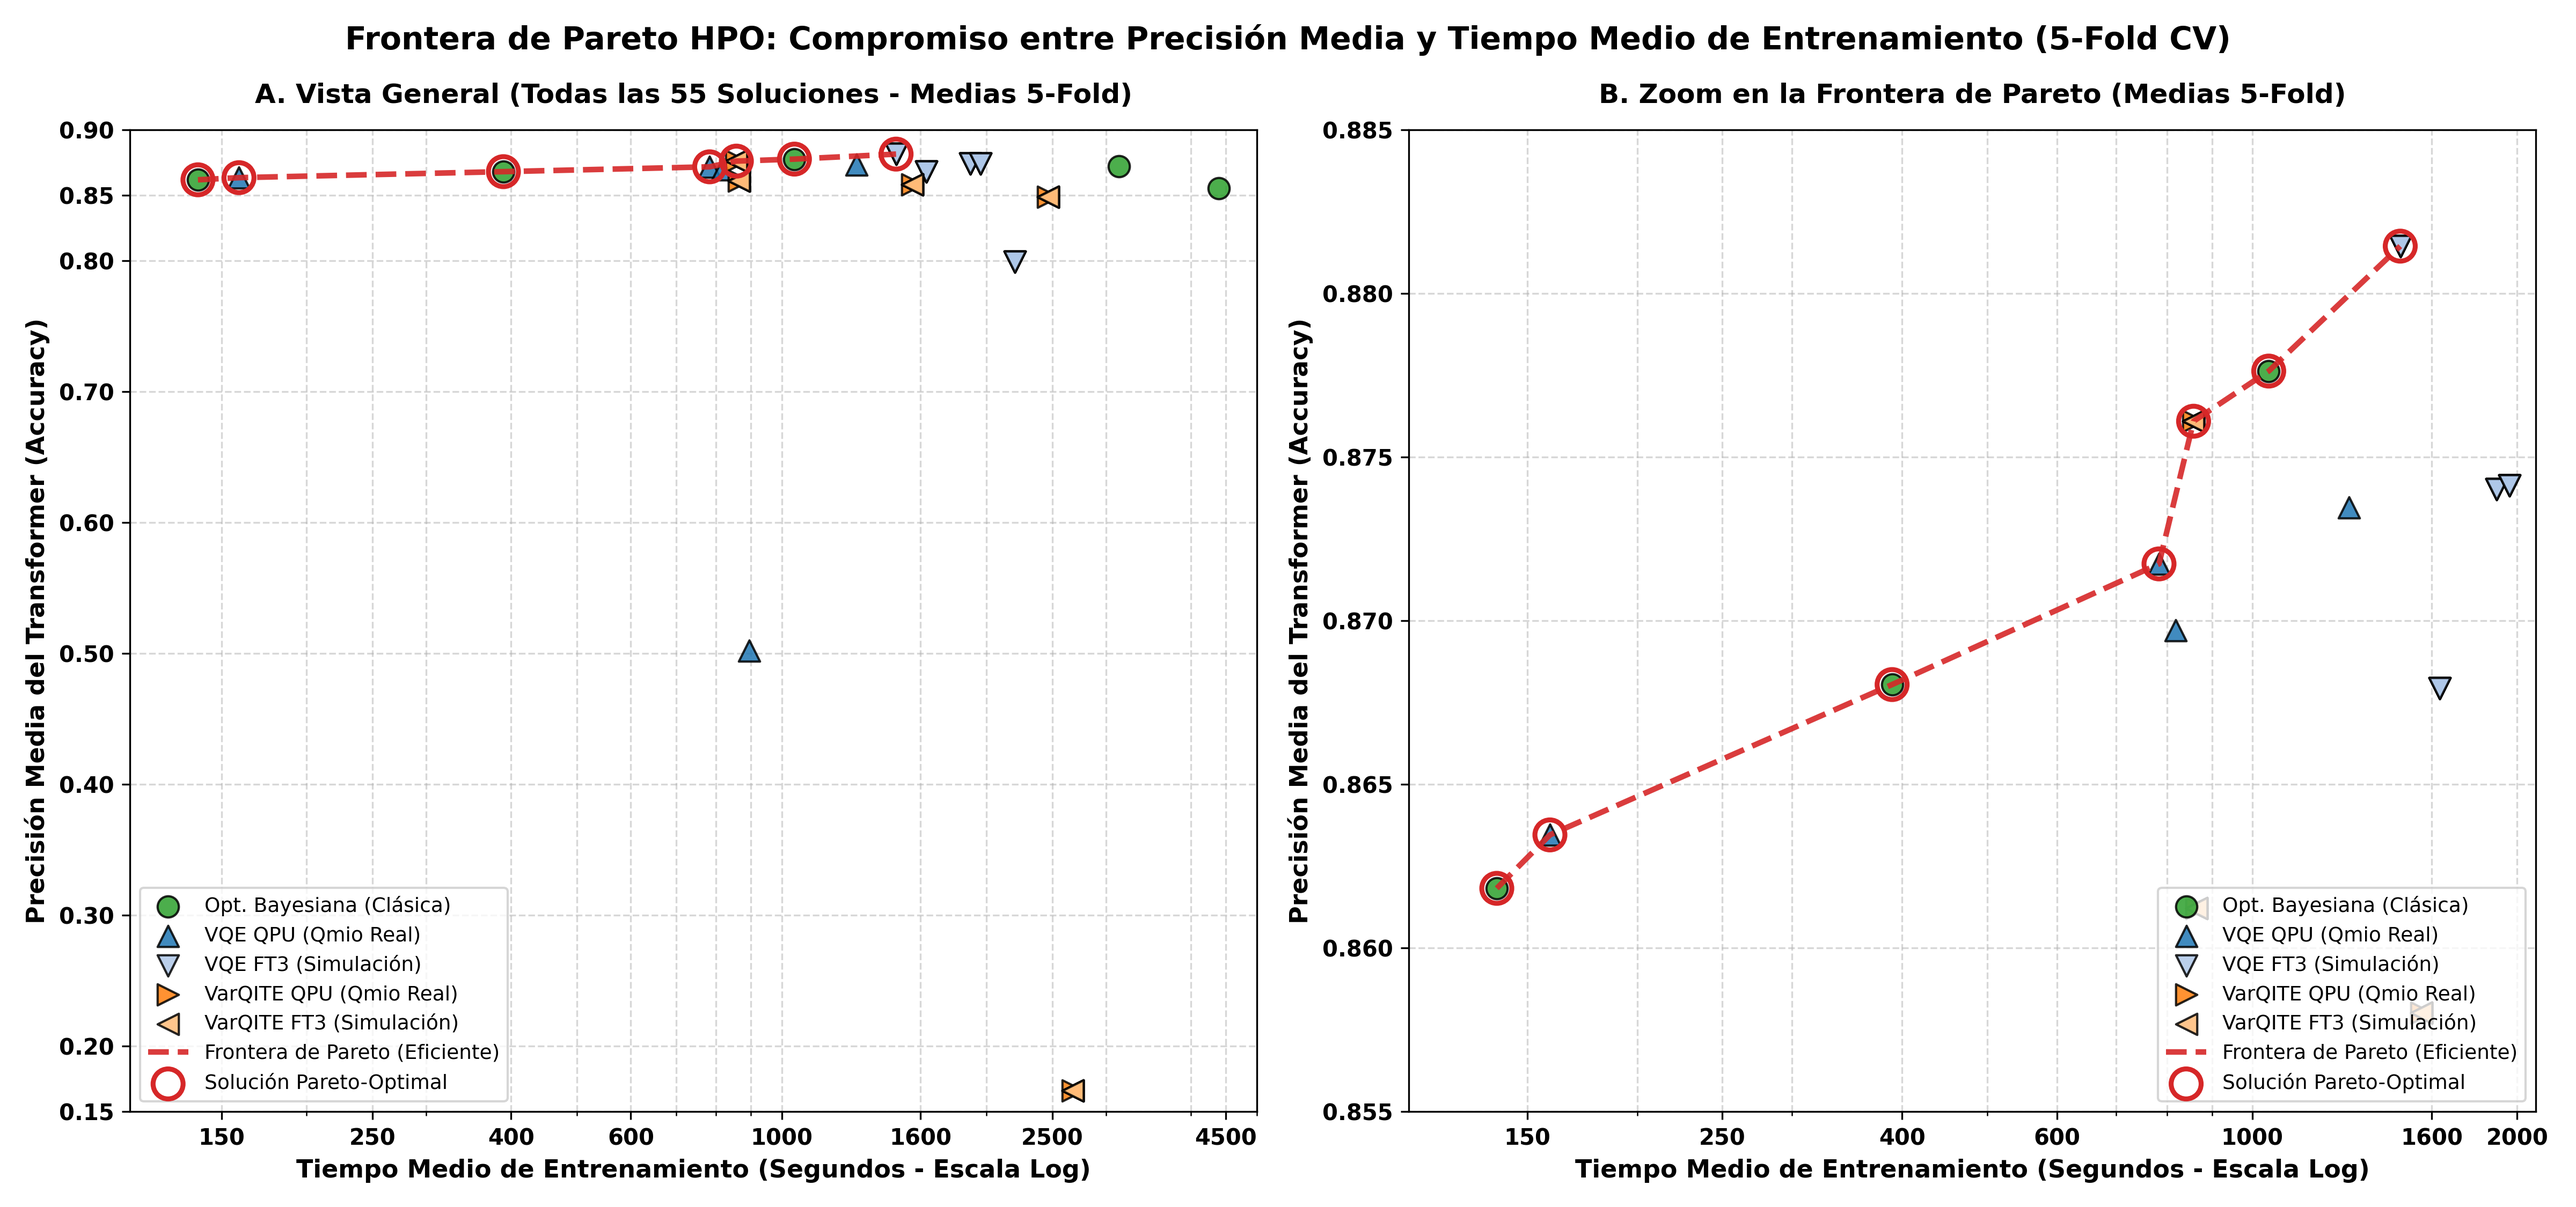
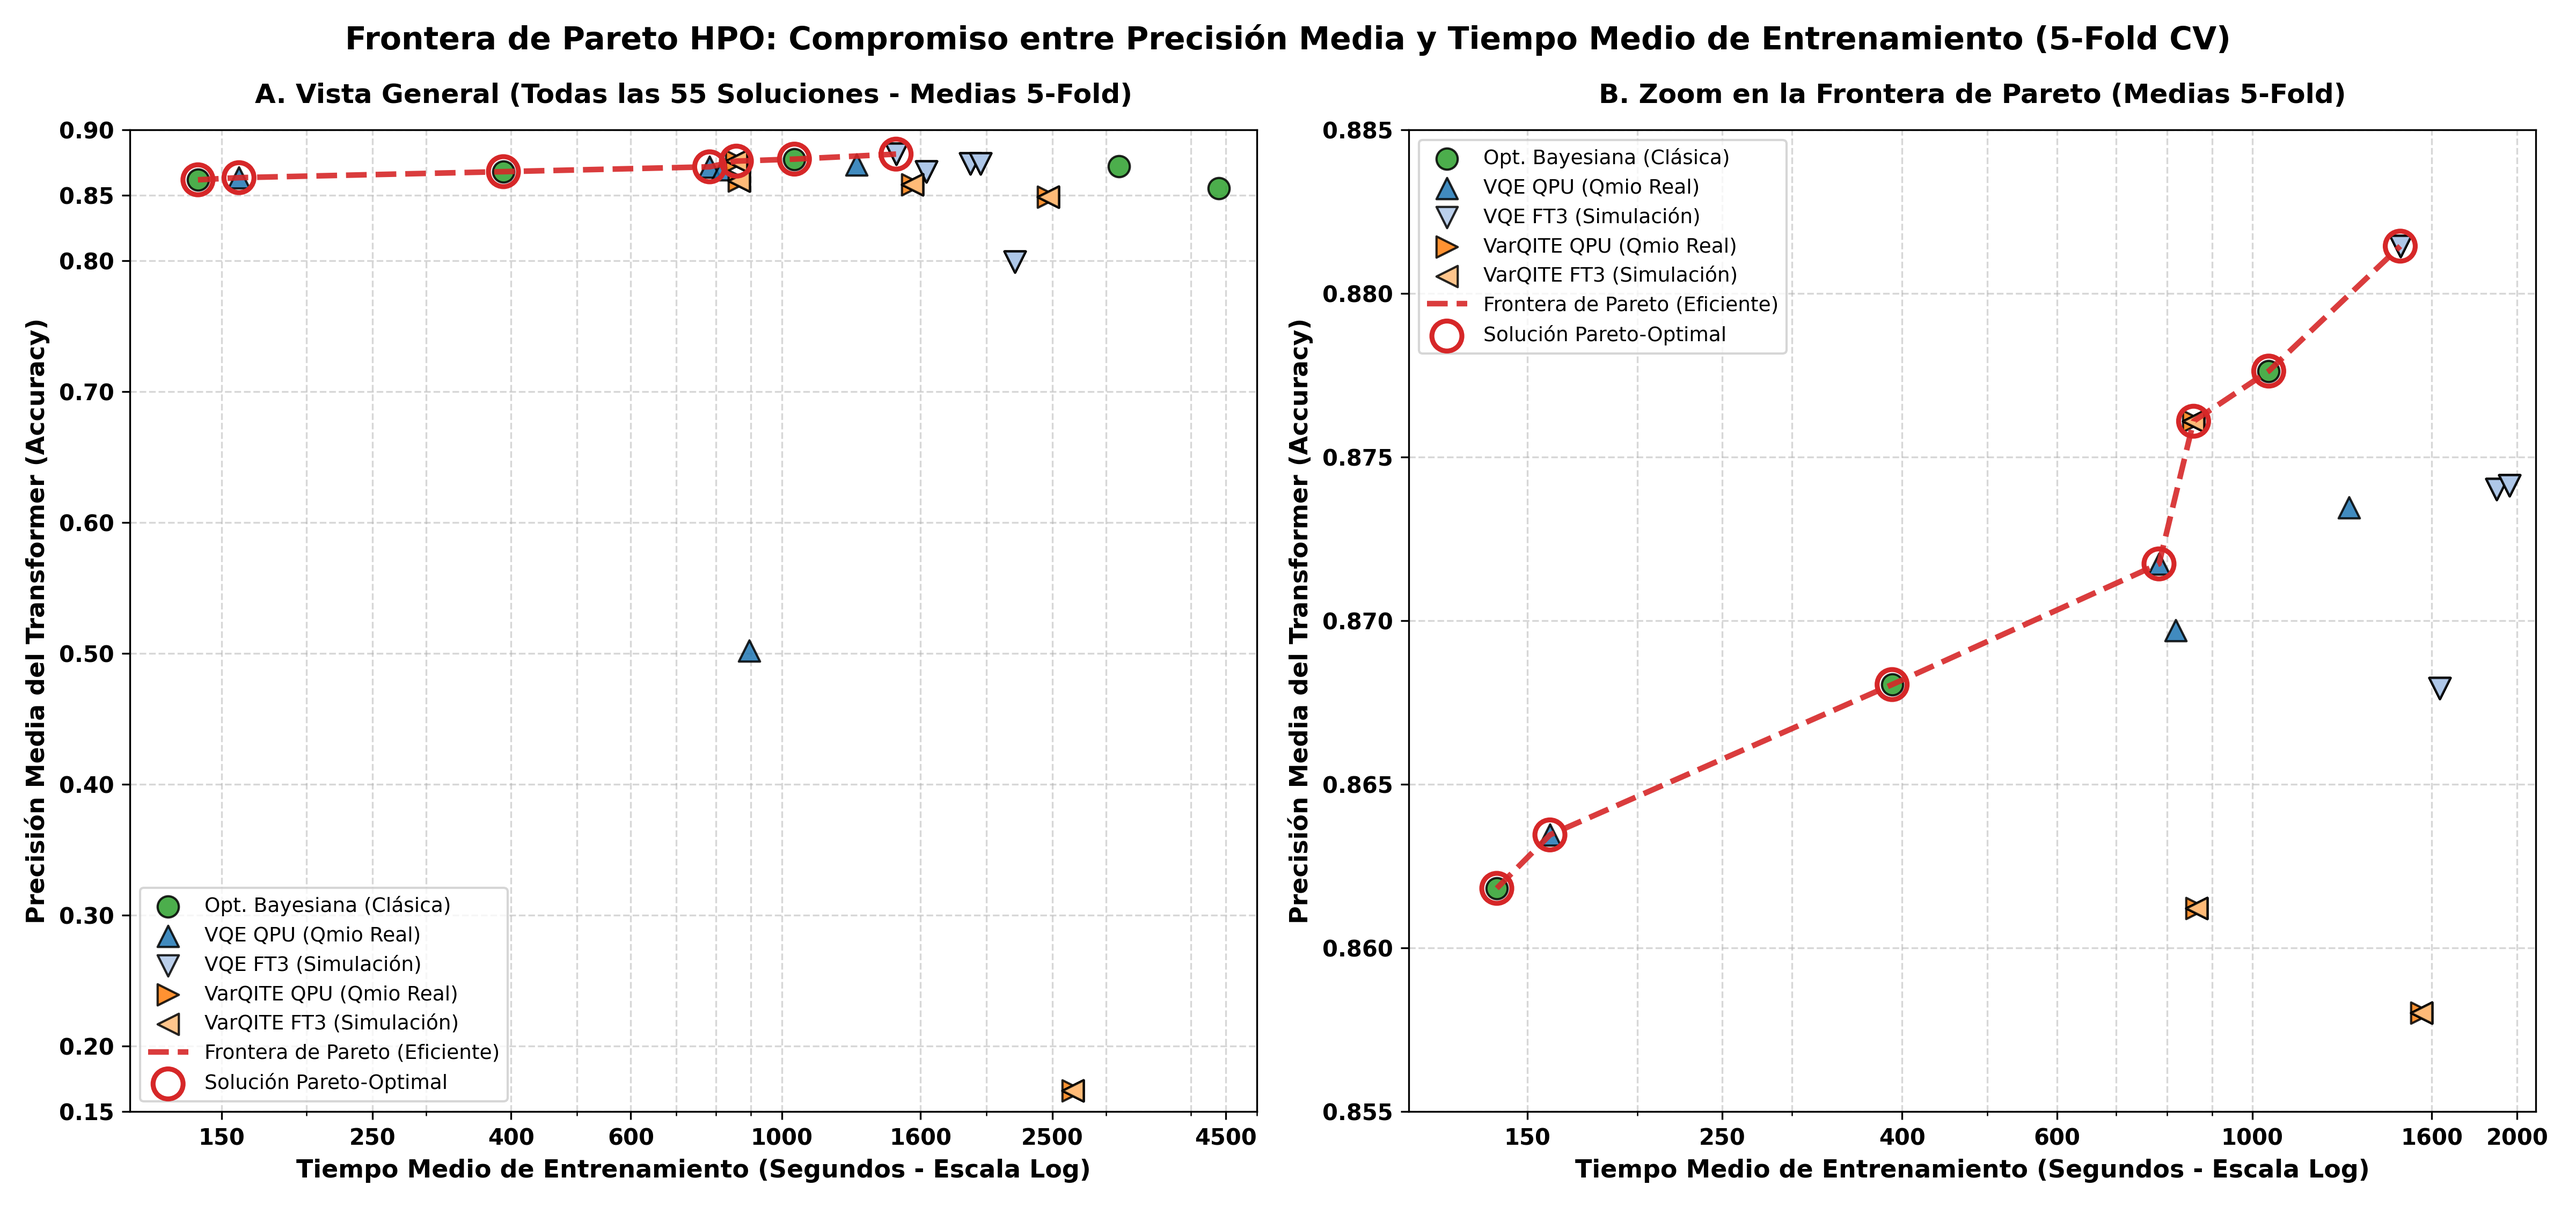
Move Pareto zoom legend to upper left and add README.md documentation for each subdirectory

Changed region(s): [[0.5312, 0.1244, 0.6875, 0.3111], [0.8438, 0.7156, 0.9688, 0.9333]]

diff --git a/src/generate_plots.py b/src/generate_plots.py
@@ -458,7 +458,7 @@ def main():
     ax2.set_xlabel('Tiempo Medio de Entrenamiento (Segundos - Escala Log)', fontsize=11, fontweight='bold')
     ax2.set_ylabel('Precisión Media del Transformer (Accuracy)', fontsize=11, fontweight='bold')
     ax2.set_title('B. Zoom en la Frontera de Pareto (Medias 5-Fold)', fontsize=12, fontweight='bold', pad=12)
-    ax2.legend(fontsize=9, loc='lower right')
+    ax2.legend(fontsize=9, loc='upper left')
 
     fig.suptitle('Frontera de Pareto HPO: Compromiso entre Precisión Media y Tiempo Medio de Entrenamiento (5-Fold CV)', fontsize=14, fontweight='bold', y=0.98)
     plt.tight_layout()

diff --git a/src/README.md b/src/README.md
@@ -1,0 +1,27 @@
+# Módulo de Código Fuente (`src/`)
+
+Esta carpeta contiene la implementación íntegra del pipeline algorítmico del proyecto, incluyendo el preprocesamiento de logs de eventos, la definición de la arquitectura Deep Learning, las rutinas de entrenamiento HPO clásico y el modelado y resolución cuántica del QUBO.
+
+## Archivos del Módulo
+
+*   **`config.py`**: Parámetros globales del sistema, rutas de persistencia en disco y semillas pseudoaleatorias reproducibles (`7, 42, 99, 123, 1001`).
+*   **`embeddings.py`**: Capas de proyección continua en PyTorch para atributos categóricos y numéricos del log de eventos.
+*   **`encoders_and_decoders.py`**: Bloques de autoatención multicabeza del `EventTransformer` (codificadores y decodificadores secuenciales).
+*   **`output_layers.py`**: Capas lineales de salida para predicción multitarea (actividad siguiente, tiempo de ciclo restante e información de recursos).
+*   **`training.py`**: Lógica de entrenamiento por lotes, optimizador AdamW, programación de tasa de aprendizaje y funciones de pérdida ponderadas.
+*   **`evaluation.py`**: Cálculo de métricas de precisión mediante distancia de similitud de Damerau-Levenshtein sobre secuencias predictivas.
+*   **`utils.py`**: Procesamiento de cadenas, vectorización, empaquetado de secuencias (*padding*) y funciones auxiliares de sistema.
+*   **`sampler_hpo.py`**: Muestreador del espacio continuo-discreto HPO clásico bajo restricciones físicas y de paralelismo del clúster.
+*   **`train_hpo.py`**: Envoltorio (*wrapper*) para el entrenamiento de pliegues cruzados (5-Fold CV, 50 épocas por fold) con persistencia segura mediante bloqueo de archivos (`fcntl`).
+*   **`generate_qubo.py`**: Módulo de ajuste de regresión regularizada Lasso L1 LARS Cross-Validation que mapea el espacio de hiperparámetros a la matriz binaria cuadrática QUBO.
+*   **`solve_bayes_opt.py`**: Resolvedor clásico mediante optimización bayesiana con Procesos Gaussianos.
+*   **`solve_vqe.py`**: Resolvedor cuántico variacional VQE empleando simuladores MPS en CPU/GPU o conectividad física directa a la QPU superconductora de Qmio.
+*   **`solve_qite.py`**: Resolvedor cuántico de evolución en tiempo imaginario VarQITE con integrador de Euler de paso fijo sobre la ecuación de McLachlan.
+*   **`generate_plots.py`**: Script centralizado encargado de compilar los CSV experimentales y renderizar los 10 gráficos de alta resolución.
+*   **`train.ipynb`**: Cuaderno Jupyter interactivo para pruebas rápidas y ejecuciones aisladas en GPU.
+
+## Subdirectorios
+
+*   **`data_processors/`**:
+    *   `attributes.py`: Extractor de tipos de atributos de eventos categóricos e índices lógicos.
+    *   `event_logs.py`: Mapeador lógico del registro de eventos estructurado en formato XES.

diff --git a/resultados/README.md b/resultados/README.md
@@ -1,0 +1,25 @@
+# Resultados e Imágenes (`resultados/`)
+
+Esta carpeta compila las tablas de rendimiento experimental y almacena las representaciones gráficas en alta resolución exportadas por el módulo visualizador del proyecto.
+
+## Archivos de Resultados (CSVs)
+
+*   **`resultados_soluciones_reales.csv`**: Tabla unificada que consolida las 55 soluciones óptimas entrenadas de forma real en la GPU del CESGA para las 5 semillas, cruzando tiempo y precisión real.
+*   **`resultados_bayes_opt.csv`**: Resultados experimentales de la optimización clásica basada en procesos gaussianos.
+*   **`resultados_vqe_sweep.csv`**: Barrido experimental del impacto del ruido cuántico sobre el algoritmo VQE simulado en FT3.
+*   **`resultados_qite_sweep.csv`**: Barrido experimental del impacto del ruido cuántico sobre el algoritmo VarQITE simulado en FT3.
+*   **`resultados_vqe_qmio.csv`**: Fichero de telemetría cuántica obtenido físicamente en la QPU real de Qmio al ejecutar VQE.
+*   **`resultados_qite_qmio.csv`**: Fichero de telemetría cuántica obtenido físicamente en la QPU real de Qmio al ejecutar VarQITE.
+
+## Gráficos de Salida (PNGs)
+
+*   **`frontera_pareto.png`**: Gráfico comparativo de dos paneles (Vista General y Zoom de la frontera) que evalúa la precisión media frente al tiempo medio de entrenamiento en GPU.
+*   **`comparativa_tiempos.png`**: Gráfico comparativo de dos paneles que enfrenta el tiempo medio de búsqueda del solver cuántico/clásico frente al tiempo medio de entrenamiento real del Transformer.
+*   **`comparativa_precision.png`**: Diagrama de barras independiente que compara la exactitud media real alcanzada por los Transformers afinados por cada algoritmo.
+*   **`comparativa_energia.png`**: Muestra la energía normalizada media del QUBO lograda por cada resolvedor clásico/cuántico.
+*   **`comparativa_energia_desglosada.png`**: Análisis de la paradoja de la factibilidad, comparando la energía de rendimiento raw (sin penalización) y la energía total del Hamiltoniano cuántico (con Lagrange $\lambda$).
+*   **`comparativa_factibilidad.png`**: Tasa media de factibilidad cuántica en la QPU real.
+*   **`impacto_ruido_factibilidad.png`**: Curva de degradación de la factibilidad conforme aumenta el ruido (Sin Ruido, Ruido Bajo, Medio y Alto) para VQE y VarQITE.
+*   **`promedio_violaciones.png`**: Media del número de violaciones de la restricción cuántica One-Hot.
+*   **`degradacion_tiempo_ruido.png`**: Tiempo medio consumido por los simuladores clásicos cuánticos en el FT3 al modelar el canal de ruido.
+*   **`comparativa_tiempos_semillas.png`**: Tiempos de ejecución del optimizador detallados semilla a semilla.

diff --git a/slurm/README.md b/slurm/README.md
@@ -1,0 +1,13 @@
+# Orquestación HPC (`slurm/`)
+
+Esta carpeta contiene los scripts Bash diseñados para interactuar con el gestor de colas Slurm en el supercomputador FinisTerrae III (FT3) del CESGA, permitiendo automatizar los entrenamientos paralelos, barridos y el enrutamiento físico a la QPU cuántica Qmio.
+
+## Archivos de Orquestación
+
+*   **`setup_env.sh`**: Script de aprovisionamiento que automatiza la creación de un entorno virtual Python (`venv`) en la partición `/Store` del CESGA, instalando PyTorch con soporte CUDA y librerías cuánticas de Qiskit compatibles con el hardware físico.
+*   **`launch_hpo.sh`**: Script de tipo array de Slurm (tareas 1-100) que lanza de forma concurrente el muestreo del pool HPO clásico (300 ejecuciones totales repartidas entre 5 semillas) en nodos acelerados con GPUs NVIDIA A100.
+*   **`run_bayes_opt.sh`**: Envío de Slurm para ejecutar la optimización clásica basada en procesos gaussianos sobre las 5 semillas del TFG.
+*   **`run_vqe.sh`**: Script para ejecutar las optimizaciones VQE simuladas en el supercomputador FT3.
+*   **`run_qite.sh`**: Script para ejecutar las simulaciones cuánticas VarQITE (evolución en tiempo imaginario) clásica.
+*   **`run_vqe_qmio.sh`**: Script de enrutamiento cuántico que configura los accesos de red y ejecuta VQE conectándose directamente al hardware superconductor real de la QPU Qmio de 32 qubits.
+*   **`run_qite_qmio.sh`**: Script de enrutamiento cuántico que ejecuta el algoritmo VarQITE en la QPU física de Qmio aprovechando el esquema de evolución paralela de circuitos.

diff --git a/data/README.md b/data/README.md
@@ -1,0 +1,19 @@
+# Gestión de Datos (`data/`)
+
+Esta carpeta está dedicada a la persistencia de registros de eventos, matrices de acoplamiento cuadrático cuántico, metadatos y pesos neuronales preentrenados del EventTransformer.
+
+## Archivos de Datos
+
+*   **`resultados_hpo.csv`**: Historial maestro que recopila los resultados clásicos de HPO con 322 ejecuciones de validación cruzada y su rendimiento asociado en la GPU del clúster.
+*   **`matriz_qubo.csv`**: Matriz binaria cuadrática simétrica $Q$ ($30 \times 30$) generada mediante regresión regularizada Lasso L1 LARS. Representa el Hamiltoniano de coste cuántico del espacio HPO.
+*   **`metricas_qubo.json`**: Metadatos asociados al ajuste matemático del QUBO, almacenando el RMSE y el parámetro de penalización de Lagrange $\lambda$ utilizado para modelar la restricción cuántica One-Hot.
+
+## Subdirectorios
+
+*   **`models/`**:
+    *   `env_permit_fold0_event_predictor.pth`: Pesos preentrenados en formato binario PyTorch correspondientes al EventTransformer para el pliegue 0 de validación.
+*   **`event_log/`**:
+    *   `attributes.yaml`: Definición de atributos de actividad, recursos y ciclo de vida de los logs.
+    *   `env_permit.xes.gz`: Registro de eventos real en formato estructurado XES (comprimido en GZIP).
+    *   `window_sizes.json`: Configuración de la ventana temporal de autoatención para secuencias del proceso.
+    *   **`splitted/`**: Ficheros XES resultantes de la división en 5 folds para la validación cruzada (`train_foldX.xes`, `val_foldX.xes` y `test_foldX.xes`).

diff --git a/docs/README.md b/docs/README.md
@@ -1,0 +1,12 @@
+# Documentación (`docs/`)
+
+Esta carpeta contiene la documentación académica, guías teóricas, borradores manuscritos y archivos fuente de compilación en LaTeX asociados a la memoria de este Trabajo de Fin de Grado (TFG).
+
+## Archivos de Documentación
+
+*   **`manuales_tecnicos.tex`**: Archivo fuente en LaTeX correspondiente al **Apéndice A** de la memoria de la tesis. Detalla de forma exhaustiva la estructura del repositorio y los manuales de reproducción paso a paso.
+*   **`resumen_abstract.tex`**: Archivo fuente en LaTeX con el resumen académico estructurado en español e inglés.
+*   **`TFG_Master_Report_HPO.md`**: Reporte técnico exhaustivo y borrador markdown del proyecto global.
+*   **`QUBO_MultiObjective_Formulation.md`**: Formulación multiobjetivo y justificación física de la construcción de la función de coste cuadrática con Lagrange.
+*   **`GrIA_TFG_Modelo_A_Memoria.pdf`**: Copia en formato PDF de la memoria académica oficial compilada.
+*   **`Formula QUBO.png`**: Imagen de renderizado matemático de la ecuación del Hamiltoniano de Ising.
